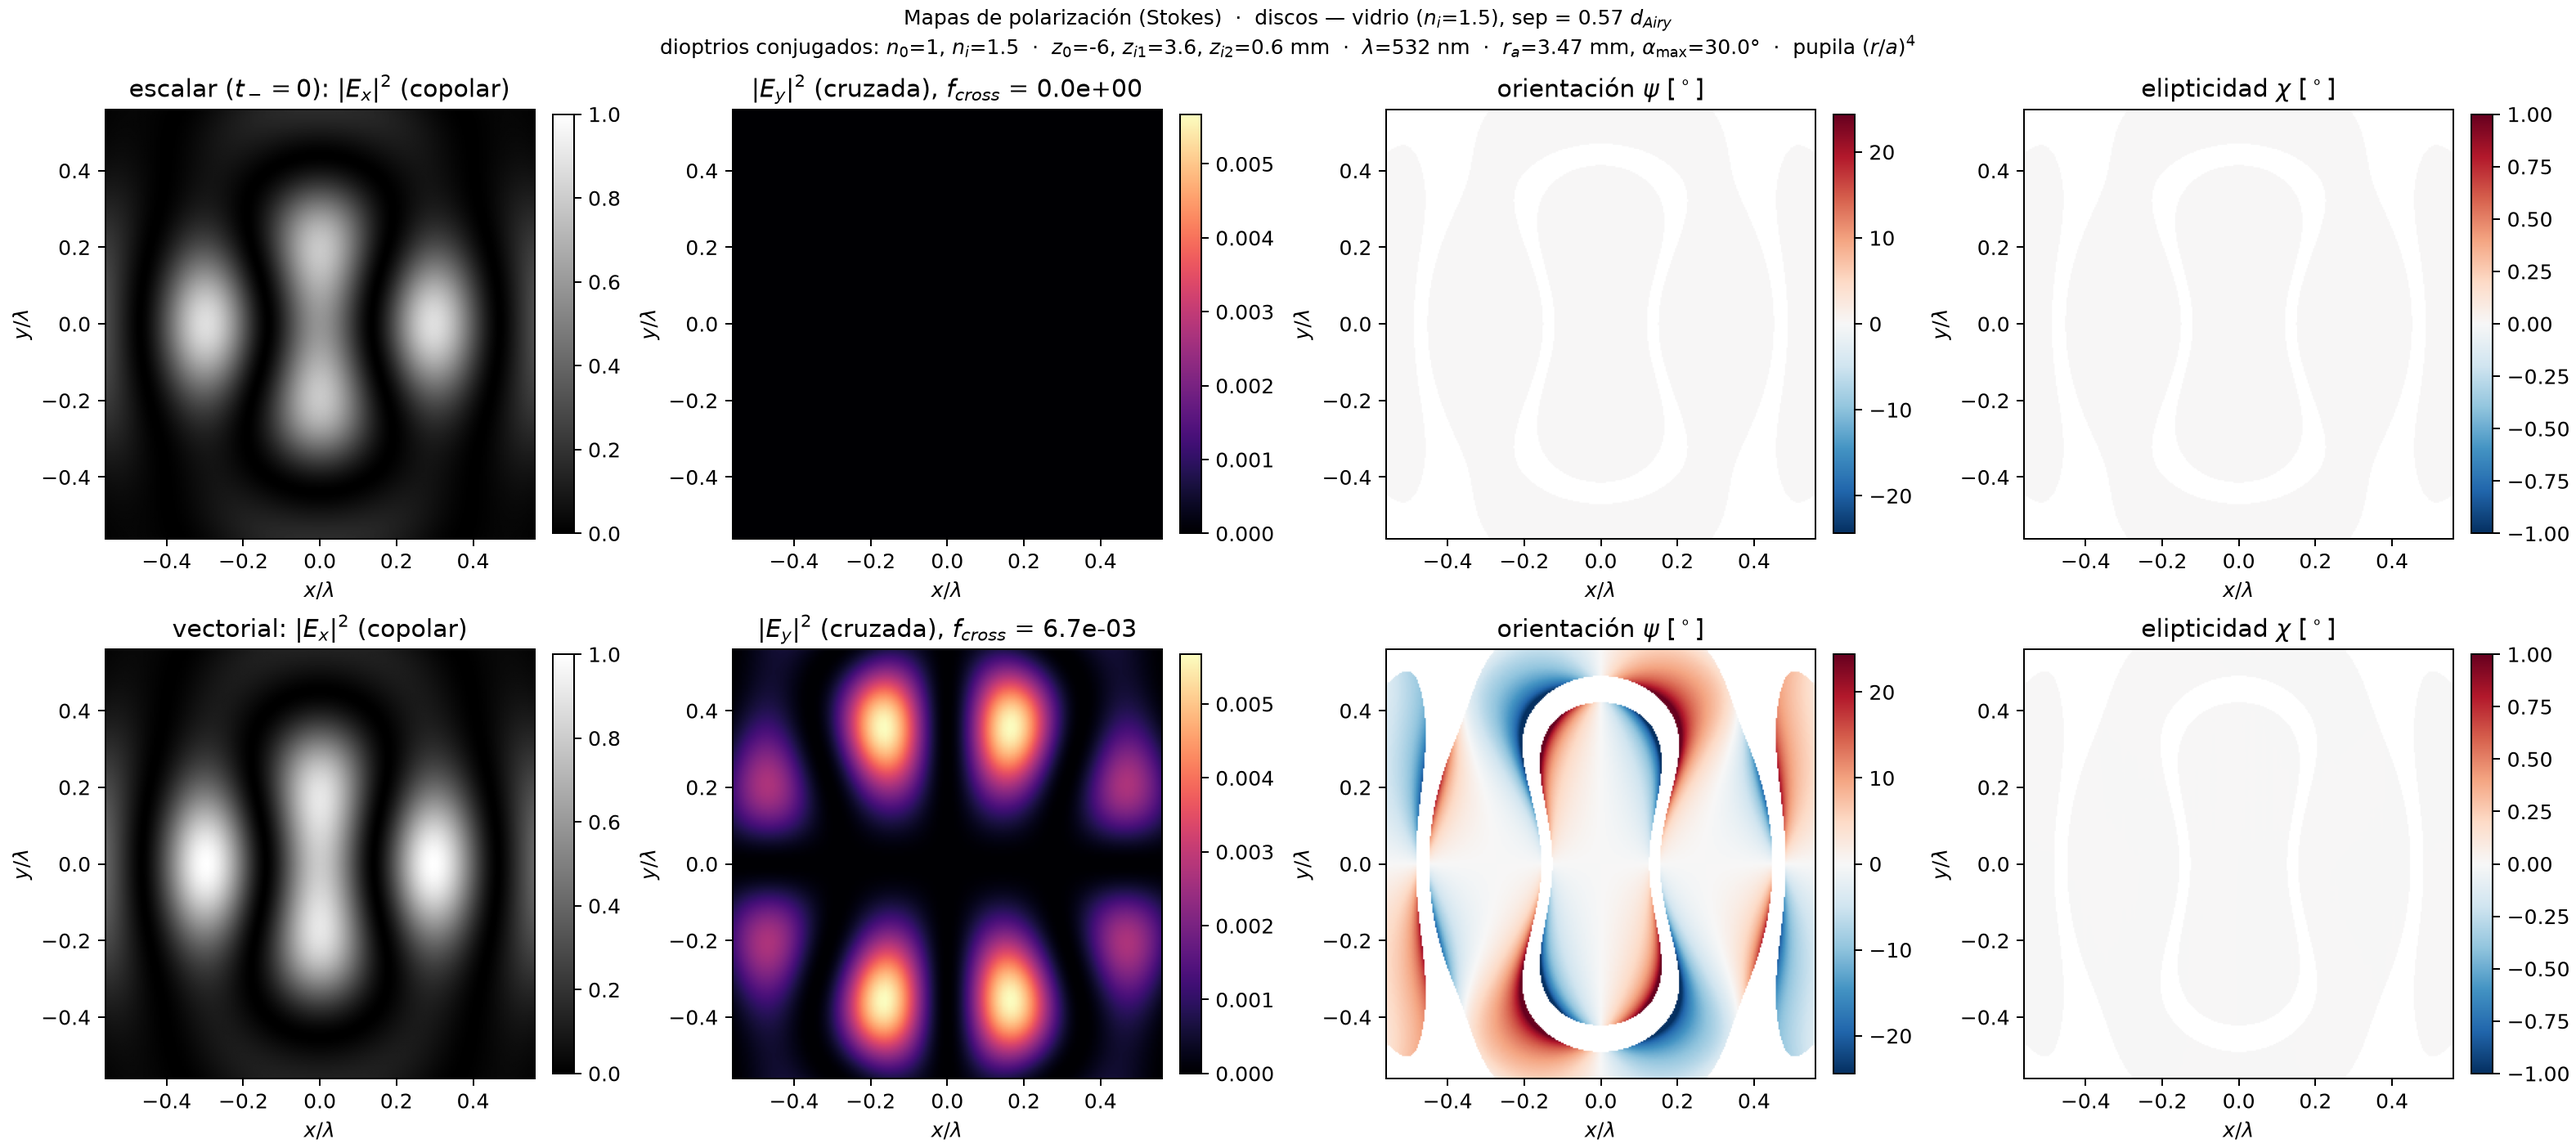
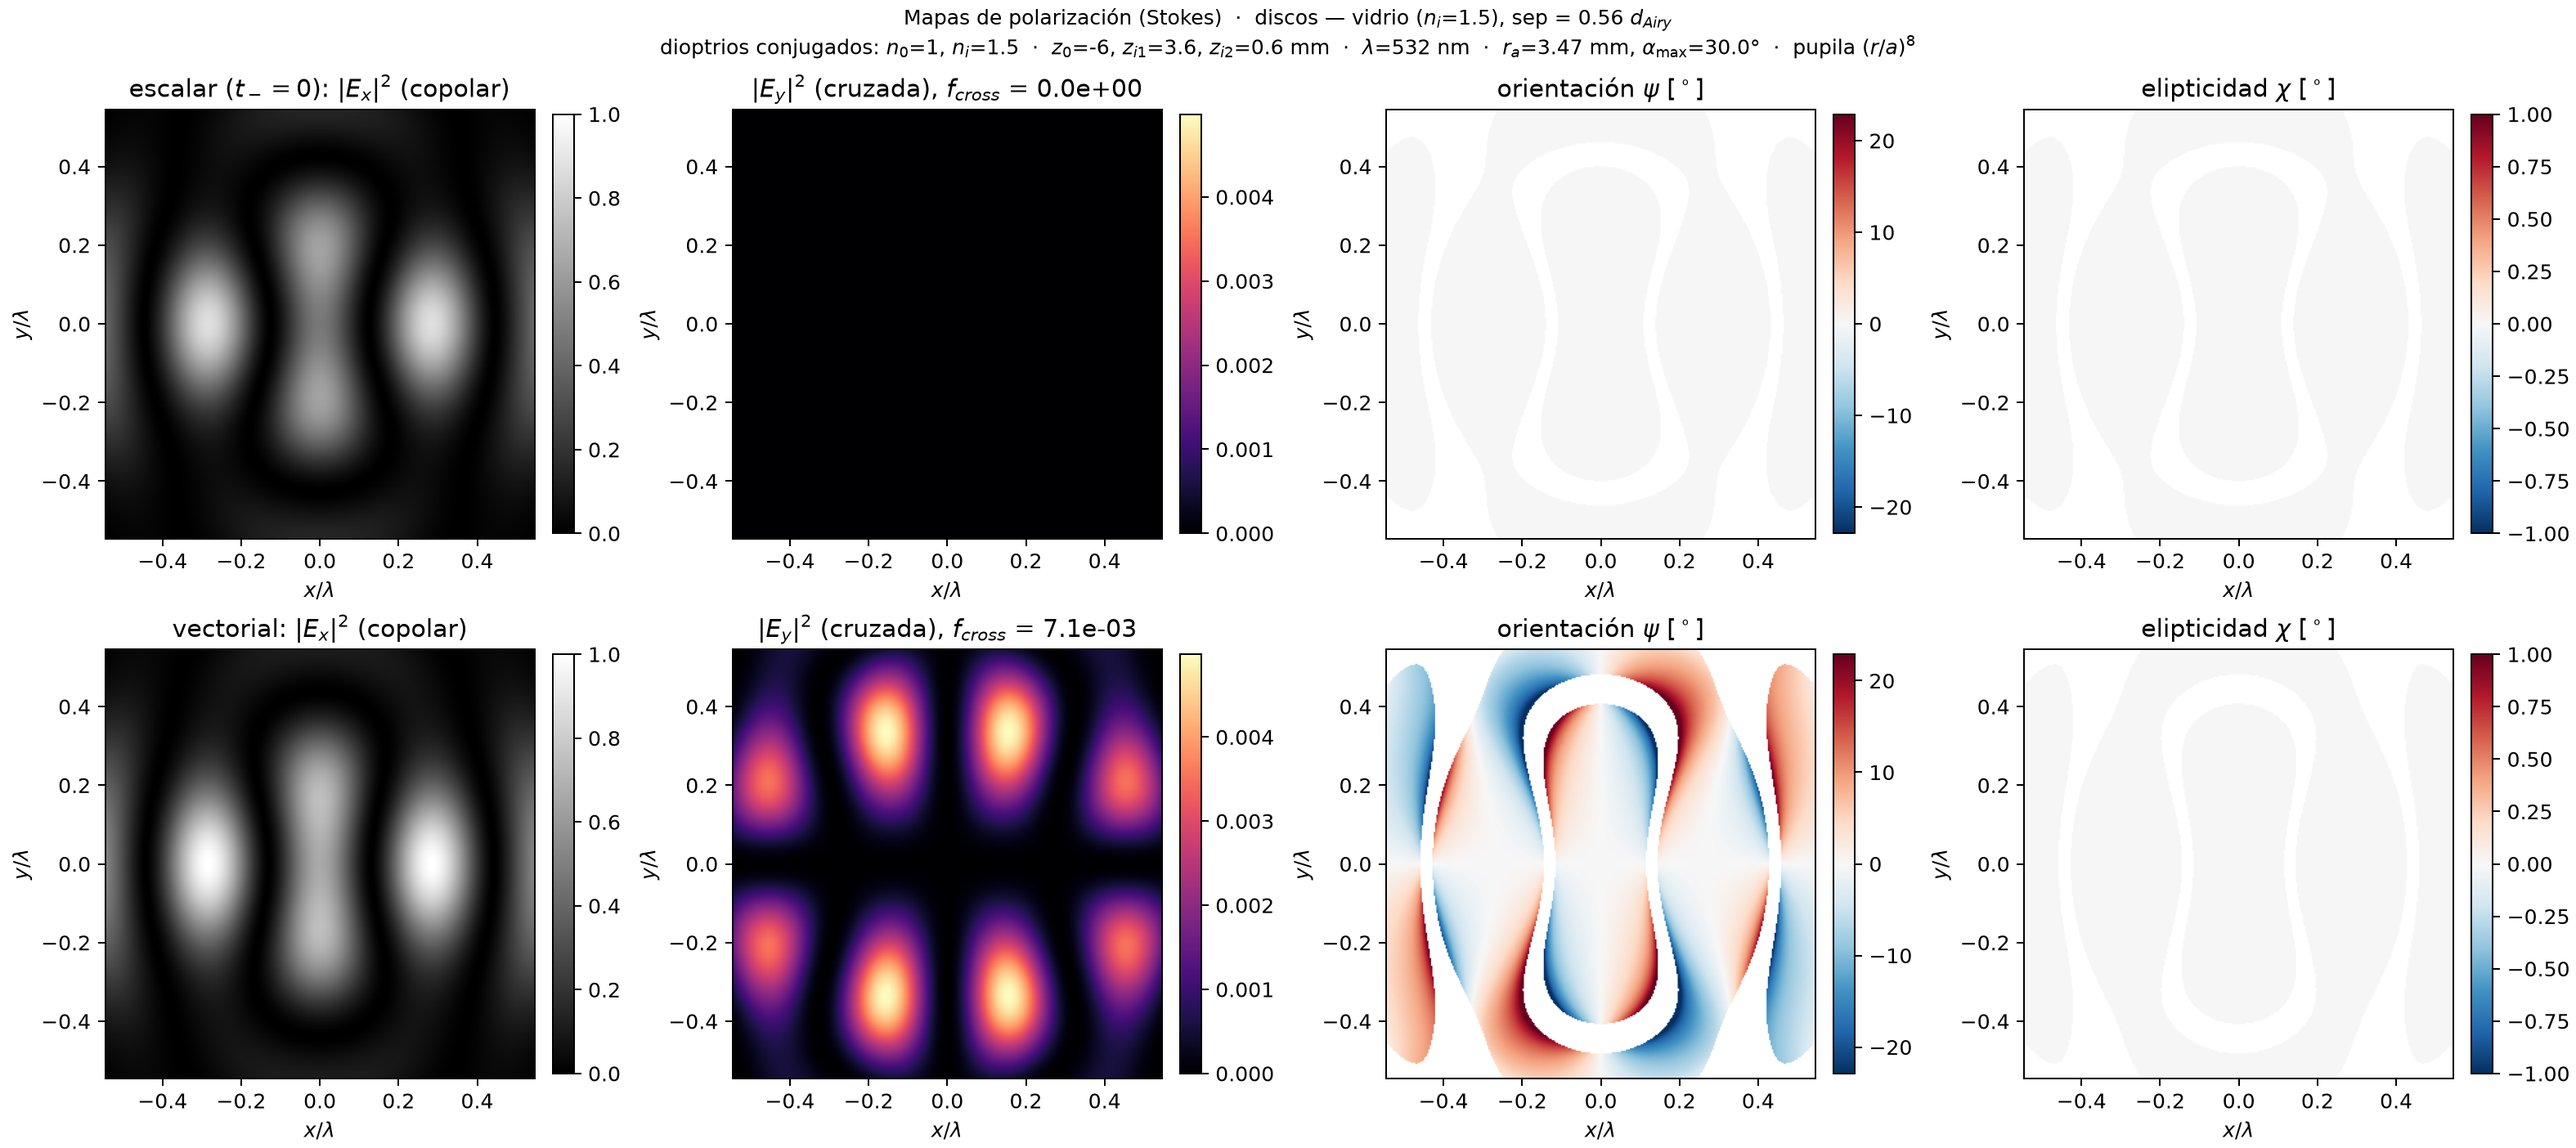
Study 4: strengthen the scalar resolution with a stronger super-resolving pupil
Per feedback, make the scalar case resolve even more easily. The edge-weighted
pupil is raised to (r/a)^8 -- a Toraldo-type super-resolving apodization that
narrows the scalar PSF -- and the showcase is now picked at the separation of
maximum scalar valley contrast whose vectorial image is still clearly fused
(C_vec < 0.10), rather than at maximum contrast gap.

High-index discs now split with a 50%-deep scalar valley (C=0.33) while the
vectorial image stays fused (C=0.07, valley filled to ~86%); lines and the
realistic glass system keep their inversion windows. CONCLUSIONS.md and the
curated results/ figures updated. Full suite green (52).

diff --git a/investigation/focal_plane_aperture_study/study_4_resolution_inversion.py b/investigation/focal_plane_aperture_study/study_4_resolution_inversion.py
@@ -52,10 +52,15 @@ C_TH = 0.15
 DISC_DIAM = 0.30e-3  # mm, canonical small circular features
 LINE_LEN_F = 1.5     # line length in units of sep
 # Edge-weighted pupil (r/a)^EDGE_P concentrates the energy near the grazing rim
-# where t_minus/t_plus peaks, amplifying the polarization mixing so the
-# inversion is visually obvious (scalar clearly split, vectorial fused).
-EDGE_P = 4.0
-S_FRACS = np.linspace(0.50, 0.80, 13)  # separations in units of d_Airy
+# where t_minus/t_plus peaks.  It doubles as a Toraldo-type super-resolving
+# apodization: it narrows the scalar PSF so the scalar image splits the two
+# features deeply, while the mixing keeps the vectorial image fused.
+EDGE_P = 8.0
+# The showcase is chosen to make the scalar case resolve as clearly as
+# possible: largest scalar valley contrast whose vectorial counterpart is still
+# well below the Rayleigh threshold (clearly fused, not marginally resolved).
+SHOWCASE_VEC_MAX = 0.10
+S_FRACS = np.linspace(0.48, 0.84, 19)  # separations in units of d_Airy
 
 out = common.output_dir(__file__)
 
@@ -173,14 +178,14 @@ def run_system(system):
     fig.savefig(out / f"fig1_inversion_window_{tag}.png", dpi=220)
     plt.close(fig)
 
-    # -- showcase: the separation of clearest inversion (max C_sca - C_vec
-    #    subject to scalar resolved and vectorial not) ------------------
+    # -- showcase: make the scalar resolve as clearly as possible -- the
+    #    largest scalar contrast whose vectorial image is still clearly fused --
     def pick_showcase(feature):
         c_sca, c_vec = curves[(feature, "sep_y")]
-        ok = (c_vec < C_TH) & (c_sca >= C_TH)
+        ok = (c_vec < SHOWCASE_VEC_MAX) & (c_sca >= C_TH)
         if not ok.any():
             return None
-        return float(S_FRACS[np.argmax(np.where(ok, c_sca - c_vec, -np.inf))])
+        return float(S_FRACS[np.argmax(np.where(ok, c_sca, -np.inf))])
 
     for feature in ("discs", "lines"):
         s_frac = pick_showcase(feature)
